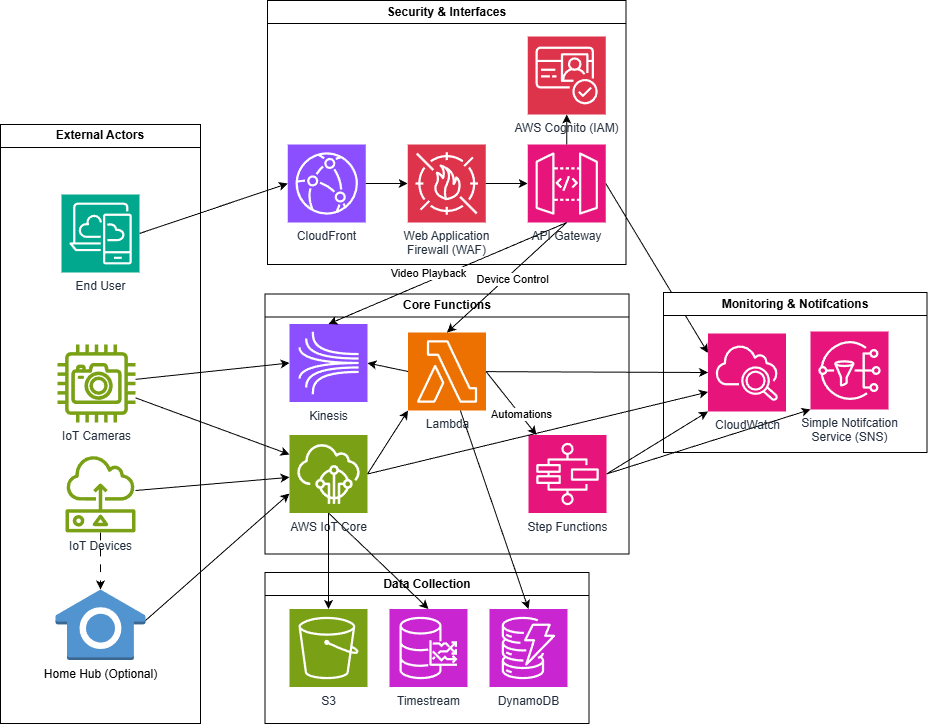
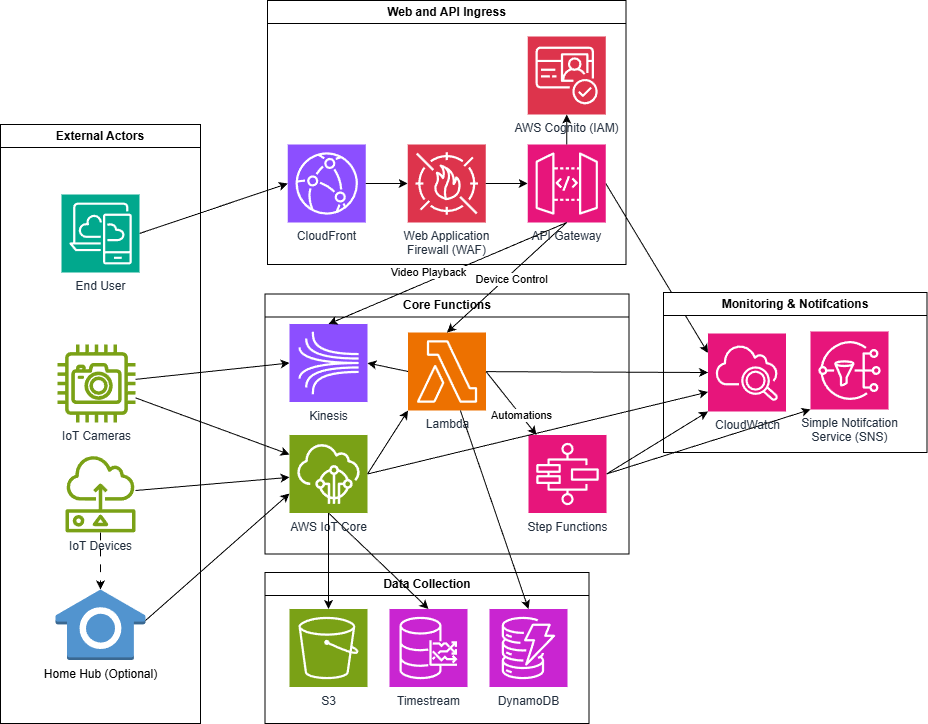
arch diagram section updasted

diff --git a/docs/report/sections/04_architecture/04_architecture_diagram.tex b/docs/report/sections/04_architecture/04_architecture_diagram.tex
@@ -1,48 +1,32 @@
-% ── 4. System Architecture Diagram ───────────────────────────────────────────
+% -- 4. System Architecture Diagram -------------------------------------------
 \section{System Architecture Diagram}
+\label{sec:architecture}
 
-% TODO: Export the current draw.io diagram and place it below.
+Figure~\ref{fig:architecture} presents the proposed AWS architecture for \textit{LightsPlease}. The design separates three different traffic patterns as user facing web and API traffic, device command and telemetry traffic, and camera media traffic. This separation aligns with the kata's requirement for the platform to support modular smart home units, remote Internet access, and customer defined automations without forcing every workload through the same technical path. This architecure assumes the user already has a Wifi connection for web enabled devices, since the modules only need secure outbound connectivity to AWS rather than a dedicated on-premises managed local server. Protocol hubs such as Phillips Hue that establish a ZigBee network rather than Wifi can still be used, while not required, since the hub can directly connect to AWS IoT Core over the household network. 
 
-\subsection{AWS Service Descriptions and Responsibilities}
+\begin{figure}[H]
+  \centering
+  \includegraphics[width=\linewidth]{sections/04_architecture/architecture.png}
+  \caption{High-level AWS architecture for the LightsPlease home automation platform}
+  \label{fig:architecture}
+\end{figure}
 
-This architecture separates the platform into three major paths: a web and API ingress path for end users, a device connectivity path for smart-home modules, and a camera media path for security video. The intent of this separation is to keep the design high level and operationally clear while still mapping each major requirement to a managed AWS service. User-facing HTTPS traffic enters through CloudFront and API Gateway, device control and telemetry traffic terminate at AWS IoT Core, and camera video is handled through Amazon Kinesis Video Streams rather than being forced through the general IoT messaging path.
+\subsection{Web and API Ingress}
 
-\subsubsection{Web and API Ingress}
+Amazon Cognito is used to first authenticate users, who can then interact with the platform through a protected web and API boundary built around CloudFront, AWS WAF, and API Gateway. This provides an ingress layer that gives the system a clean Internet facing edge for HTTPS traffic, reduces direct exposure of backend services, and supports the kata's requirement for customers be able to monitor and control their homes remotely. Cognito provides identity tokens to a users web or mobile clinet, these tokens allow the API Gateway to be called, and then allow Lambda to enforce household specific authorization before executing device control, automation, or video playback requests. This provides an additional layer of security and protection to the user, since this platform prevents the user from needing to expose devices on their private network to the internet. 
 
-\textbf{Amazon CloudFront} serves as the public edge entry point for the web application and distributes static frontend assets globally. By caching the user interface close to end users, CloudFront reduces latency for household members accessing the platform remotely and limits repeated origin requests for static content. The frontend itself is hosted in Amazon S3 and delivered through CloudFront rather than from a custom web server, which keeps the presentation layer simple and highly available.
+\subsection{Device Control and Automation Path}
 
-\textbf{AWS WAF} protects the internet-facing application surfaces attached to CloudFront and Amazon API Gateway. WAF enforces managed and custom filtering rules that block common web attacks, abusive request patterns, and excessive request rates before those requests reach the application layer. At this level of design, WAF represents the primary web traffic protection boundary rather than a standalone application component.
+The primary control plane for non-video modules is centered on AWS IoT Core. This architecture assumes a lightweight MQTT over TLS model for lights, locks, thermostats, and similar units. That protocol choice is intentional as it is better suited to constrained, intermittently connected devices than pushing every interaction through a conventional request response API \cite{webbylab}. Devices connect through the customer's home network, publish telemetry and status updates to IoT Core, and receive cloud originated commands over the same secure channel. Lambda provides the higher level application logic around device registration, command validation, household ownership, and automation dispatch, while Step Functions coordinates longer running or multistep workflows such as scheduled routines, chained actions across several modules, or recovery logic when part of an automation fails.
 
-\textbf{Amazon API Gateway} exposes the HTTPS API consumed by the web and mobile clients. It acts as the managed boundary between authenticated users and backend business logic, handling request routing, throttling, CORS, and token validation so those concerns do not need to be reimplemented in the application layer. API Gateway is used for operations such as onboarding, household management, device control requests, automation configuration, and retrieval of current device state or telemetry summaries.
+\subsection{Camera and Media Path}
 
-\textbf{Amazon Cognito} provides the user identity and authentication layer for the consumer-facing platform. It manages user registration, sign-in, password policies, and multi-factor authentication, and issues tokens that are validated before protected API calls are allowed to proceed. Cognito is intentionally focused on end-user identity; device identity and authorization remain part of the IoT connectivity path rather than being merged into the same service boundary.
+Cameras use the same general cloud control model for registration, health reporting, and user authorization, but their media path is intentionally separated from ordinary IoT messaging. This is due to IoT Core not being designed to handle basic control data, and telemetry. For this, Amazon Kinesis Video Streams are utilized to handle the video encoding and streaming of camera feeds. This is one of the most important design decisions in the architecture because remote camera observation is a core kata requirement, yet video has very different bandwidth, retention, and playback characteristics than simple device telemetry. Keeping video on a dedicated streaming path prevents that traffic from overwhelming the control plane and keeps the architecture easier to scale as camera adoption grows. Amazon S3 complements this path by storing larger objects such as snapshots, exported clips, or retained media artifacts when object storage is more appropriate than an active stream.
+% TODO: storage of video media should be analyzed in the cost section, since this is the dominant cost driver for camera-equipped households.
 
-\subsubsection{Device Connectivity and Media Services}
+\subsection{Data Collection and State Management}
+The data layer is divided by workload rather than collapsed into a single database. DynamoDB stores operational state that must be read and updated quickly, including household records, registered devices, automation definitions, command metadata, and current device status. Timestream stores time-series telemetry such as temperature readings, power measurements, motion events, or historical sensor data that may later be queried for dashboards, trends, or automation conditions. This separation was utilized to keep the platform more modular and support scalability. This allows potential future devices to utilize a common control architecture while still allowing flexibility in data management, as well as preventing a monolithic data storage solution.
 
-\textbf{AWS IoT Core} is the primary connectivity service for smart-home devices such as lights, locks, thermostats, sensors, and camera control channels. Devices connect to IoT Core over secure device protocols, allowing the platform to receive telemetry, publish remote control commands, and maintain a managed message path without exposing internal services directly to device traffic. At this high level, IoT Core represents the device ingress, secure messaging, and cloud-side integration point for modular household devices.
+\subsection{Monitoring, Notifications, and Architectural Fit}
 
-\textbf{AWS IoT Device Management} supports large-scale onboarding and lifecycle operations for deployed devices. It provides a high-level administrative plane for device registration, grouping, inventory management, and over-the-air update workflows, which makes it a strong fit for the requirement that new modules be added with minimal end-user friction and that software or firmware updates be supported over time. Including Device Management in the architecture makes the onboarding and maintainability story explicit without forcing the diagram into lower-level provisioning details.
-
-\textbf{Amazon Kinesis Video Streams} provides the dedicated media path for security cameras. Camera devices still use AWS IoT Core for control, health, and event signaling, but the actual video stream is published to Kinesis Video Streams rather than being handled as ordinary IoT telemetry. This separation allows the architecture to support near-real-time or live camera viewing in a way that is better aligned with video workloads. When an end user requests a camera stream, the application authorizes access and returns the necessary playback session information, after which the client consumes the stream directly from Kinesis Video Streams.
-
-\subsubsection{Application and Automation Services}
-
-\textbf{AWS Lambda} hosts the core backend application logic for the platform. Lambda functions process authenticated API requests, coordinate device control operations, read and update household and device metadata, evaluate or trigger automations, and prepare data returned to the user interface. Lambda also acts as the primary integration point between the web/API path and the device path by translating application requests into IoT operations and by transforming telemetry and media metadata into forms suitable for end-user consumption.
-
-\textbf{AWS Step Functions} orchestrates multi-step workflows that should not be modeled as a single function invocation. This includes user-defined automations, conditional event responses, onboarding flows that require several coordinated steps, and escalation scenarios such as security alerts that involve multiple downstream actions. Step Functions makes the automation story easier to explain architecturally because it separates workflow state management from the stateless compute performed in Lambda.
-
-\textbf{Amazon SNS} delivers notifications generated by backend workflows and device events. Consumer-facing examples include door unlock alerts, camera motion notifications, and reminders triggered by automation rules. SNS is also a convenient target for operational alarms originating from CloudWatch, allowing the same service family to support both end-user messaging and platform alerting while still keeping those topics logically separate.
-
-\subsubsection{Data Storage}
-
-\textbf{Amazon DynamoDB} stores the platform's primary operational data, including user and household records, device registrations, room assignments, automation rule definitions, notification preferences, and other application metadata. DynamoDB is a good fit for the high-volume, low-latency access patterns expected from a consumer platform that must scale across thousands of independently deployed home environments.
-
-\textbf{Amazon Timestream} stores time-series telemetry produced by connected devices. Typical examples include temperature readings, motion events, battery levels, connectivity status, and other measurements that are naturally queried over a time window. Separating telemetry history into Timestream keeps the operational metadata model in DynamoDB focused on current state and configuration rather than long-running event history.
-
-\textbf{Amazon S3} serves multiple storage roles in the architecture. It stores the static frontend assets that are distributed through CloudFront, and it also provides durable object storage for exported camera media, snapshots, archival artifacts, and other large or infrequently accessed objects. By using S3 for these storage concerns, the architecture avoids pushing binary media and static asset storage into services that are better suited for transactional or time-series workloads.
-
-\subsubsection{Monitoring and Observability}
-
-\textbf{Amazon CloudWatch} is the central observability service for the platform. It collects logs, metrics, and alarms across API Gateway, Lambda, AWS IoT Core, Step Functions, and Kinesis Video Streams, giving operations teams a unified view of platform behavior. CloudWatch alarms can publish to Amazon SNS for operational notifications when thresholds related to availability, error rates, or device connectivity are breached.
-
-\textbf{Architectural Flow Summary.} End users access the application through CloudFront, protected by AWS WAF, and invoke backend operations through API Gateway with authentication handled by Amazon Cognito. Backend requests are processed by AWS Lambda, which reads and writes operational state in DynamoDB, coordinates workflows through Step Functions, and sends consumer notifications through SNS. Smart-home modules connect directly to AWS IoT Core for command, control, and telemetry, while AWS IoT Device Management handles lifecycle functions such as onboarding and over-the-air updates. Security cameras add a parallel media path through Amazon Kinesis Video Streams, with archival or exported objects stored in Amazon S3 and service health monitored through CloudWatch.
+CloudWatch provides the common observability layer across the public APIs, Lambda functions, automation workflows, and device integrations. SNS is utilized to handle user facing or operator facing notifications when an automation fires or when the platform detects an important event. The architecture also supports scalability, availability, and fault tolerance by incorporating a modular design that aims to utilize AWS Platform as a Service offerings. Most of the platform is built from PaaS offerings that distribute across AWS infrastructure with stateless logic. This reduces operational overhead for the platform, allows it to be securely accessed over the Internet, and responsive as the installed base grows over the first several years.
